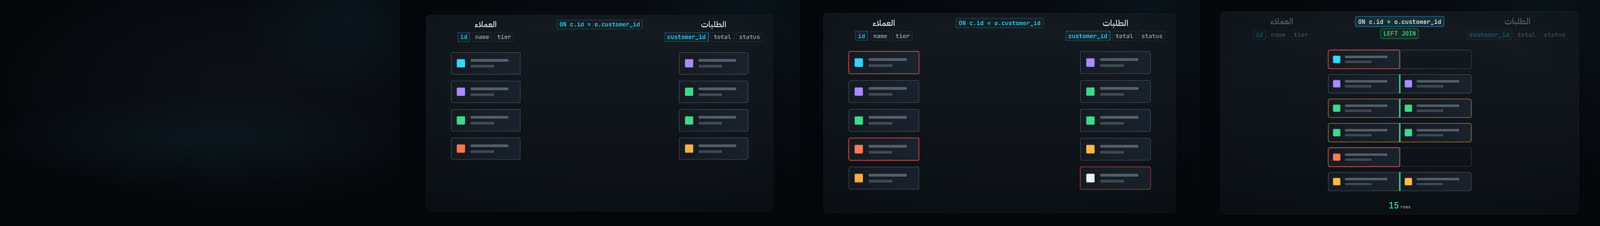
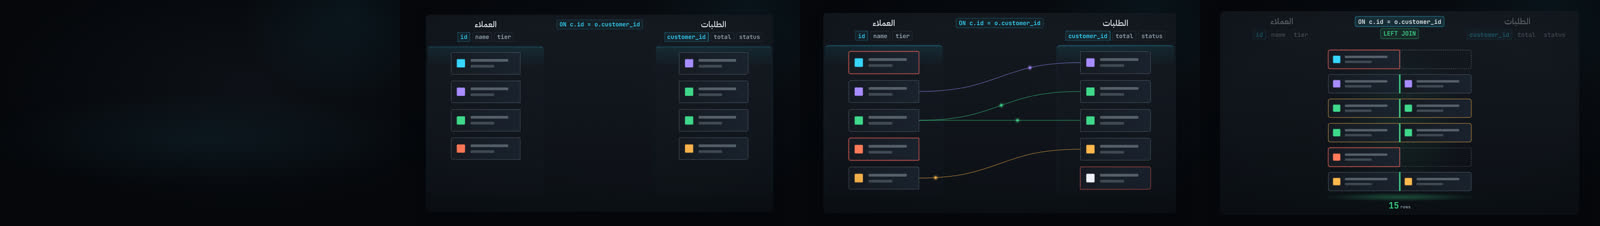
P7 data: JoinFusion finished (rim-lit slabs, PK-FK beams with spark, seam light shaft + floor pool; snap det 0 qa 0, baselines pending-critic; perf lite 0.184 / standard 0.178 / hero 0.155 box s/frame; Arabic QA pass)
Claude-Session: https://claude.ai/code/session_01VrU9wxU8GmuhdhWAAHnnQ8

diff --git a/studio/src/components/JoinFusion/JoinFusion.tsx b/studio/src/components/JoinFusion/JoinFusion.tsx
@@ -175,6 +175,44 @@ export const JoinFusionView: React.FC<DcProps<Props>> = ({props, ctx}) => {
   });
   // seams of fused rows: an ok bar where both sides are present
   const seams = res.map((rw, j) => (rw.l !== null && rw.r !== null && e > 0.5 ? <div key={`s${j}`} style={{position: 'absolute', left: W / 2 - 3, top: yPost(j) - cellH(1) / 2, width: 6, height: cellH(1), background: tint(C.ok, 0.9 * Math.min(1, (e - 0.5) / 0.5)), borderRadius: 3, boxShadow: `0 0 ${ctx.fx.glowInner}px ${tint(C.ok, 0.6)}`}} /> : null));
+  // depth + light (ADR-003 LK-F): each table stands on a slab with a rim-lit top edge, the matching keys are joined by beams
+  // (PK -> FK) with a travelling spark (deterministic phase), and the fused result is lit by a seam shaft and a floor pool.
+  const slabIn = Math.max(0, 1 - Math.min(1, e * 1.4));
+  const slabTop = pad + headH + 4;
+  const slabH = H - slabTop - pad - (props.result_rows ? Math.round(SIZE.body * 1.9) : 0) + 8;
+  const slab = (side: 'l' | 'r') => {
+    const x0 = side === 'l' ? pad - 10 : W - pad - tableW - 10;
+    return (
+      <div key={`slab${side}`} style={{position: 'absolute', left: x0, top: slabTop, width: tableW + 20, height: slabH, opacity: head * slabIn, borderRadius: 16, background: `linear-gradient(180deg, ${tint(C.signal, 0.1)} 0%, ${tint(C.panel, 0.55)} 14%, ${tint(C.panel, 0.2)} 100%)`, borderTop: `2px solid ${tint(C.signal, 0.55)}`, boxShadow: `0 -${Math.round(ctx.fx.glowInner * 0.5)}px ${Math.round(ctx.fx.glowInner * 1.6)}px ${tint(C.signal, 0.12)}`}} />
+    );
+  };
+  const beamsQ = prog(ctx, ctx.at + stag(ctx, 5, 2), 'morph') * Math.max(0, 1 - e * 2.2);
+  const beams: React.ReactNode[] = [];
+  if (beamsQ > 0.01) {
+    const x0 = xLpre + cw / 2;
+    const x1 = xRpre - cw / 2;
+    LEFT.forEach((lk, l) =>
+      RIGHT.forEach((rk, r) => {
+        if (rk !== lk) return;
+        const col = C[KEYC[lk % KEYC.length]];
+        const y0 = yPre(l);
+        const y1 = yPre(r);
+        const mx = (x0 + x1) / 2;
+        const ph = (((t - ctx.at) / (1.6 * ctx.fps) + (l * 5 + r) * 0.13) % 1 + 1) % 1;
+        const u = 1 - ph;
+        const bx = u * u * u * x0 + 3 * u * u * ph * mx + 3 * u * ph * ph * mx + ph * ph * ph * x1;
+        const by = u * u * u * y0 + 3 * u * u * ph * y0 + 3 * u * ph * ph * y1 + ph * ph * ph * y1;
+        beams.push(
+          <g key={`bm${l}.${r}`} opacity={beamsQ}>
+            <path d={`M${x0} ${y0} C${mx} ${y0} ${mx} ${y1} ${x1} ${y1}`} stroke={tint(col, 0.55)} strokeWidth={3} fill="none" strokeLinecap="round" />
+            <circle cx={bx} cy={by} r={6} fill={col} opacity={0.9} />
+            <circle cx={bx} cy={by} r={13} fill={tint(col, 0.22)} />
+          </g>,
+        );
+      }),
+    );
+  }
+  const shaftQ = Math.min(1, e * 1.6);
   const rr = props.result_rows;
   const fl = flashAt(ctx, fu && t >= landOf(ctx, fu) ? landOf(ctx, fu) : null);
   const tableHead = (side: 'l' | 'r') => {
@@ -196,6 +234,19 @@ export const JoinFusionView: React.FC<DcProps<Props>> = ({props, ctx}) => {
     <Shell ctx={ctx}>
       {fName.probe}
       <Plate style={{position: 'absolute', inset: 0, opacity: head}} />
+      {slab('l')}
+      {slab('r')}
+      {beams.length ? (
+        <svg width={W} height={H} style={{position: 'absolute', left: 0, top: 0, overflow: 'visible'}}>
+          {beams}
+        </svg>
+      ) : null}
+      {shaftQ > 0 ? (
+        <>
+          <div style={{position: 'absolute', left: W / 2 - cw * 0.9, width: cw * 1.8, top: rowsTop - 10, height: rowsH + 20, opacity: shaftQ * (0.6 + 0.4 * fl), background: `radial-gradient(ellipse at 50% 50%, ${tint(C.ok, 0.16)} 0%, ${tint(C.ok, 0)} 70%)`}} />
+          <div style={{position: 'absolute', left: W / 2 - cw * 1.1, width: cw * 2.2, top: rowsTop + rowsH - 6, height: Math.max(14, rowsH * 0.06), opacity: shaftQ, background: `radial-gradient(ellipse at 50% 50%, ${tint(C.ok, 0.3)} 0%, ${tint(C.ok, 0)} 70%)`}} />
+        </>
+      ) : null}
       {tableHead('l')}
       {tableHead('r')}
       {/* the join condition between the tables, then the kind once fused */}

diff --git a/docs/p7/catalog_status/data.md b/docs/p7/catalog_status/data.md
@@ -3,3 +3,4 @@
 | Component | Status | Notes |
 |---|---|---|
 | RowFunnel | implemented | One dot per surviving row (<= 30, else proportional bar with the dropped share in crit), funnel bands with directional light, dropped rows tumble out of the wall (arc, spin, trail), counter rolls on the `advance` word (RV1 onset, lands on the word end), stage rail, under-light pool. Demo = CH-11 funnel d:6.3:2 (14, 13, 11, 2, 2, 2, 2, 1; 8 stages, DISTINCT omitted because the frozen schema caps stages at 8: CR-007). Baselines pending-critic. Perf box s/frame at 3 slots: lite 0.106, standard 0.136, hero 0.136 (budgets 0.201 / 0.201 / 1.038). 2D SVG, no WebGL, so hero equals standard. |
+| JoinFusion | implemented | Two tables on rim-lit slabs (key chips, the `on` key lit), PK -> FK beams with a travelling spark between matching abstract rows (5 + 5 rows: 1:1, a 1:2 fan-out, unmatched; no digits or values invented), `fuse` slides the rows into the result of `kind` (inner / left / right / full / semi / anti / cross; NULL = hollow dashed ghost cells, dropped rows crit, fan-out rows warn edge, ok seam + light shaft + floor pool), `showUnmatched` rings unmatched rows in crit, `result_rows` (Num with ref) rolls up on the fuse word. Demo = CH-12 `customers LEFT JOIN orders`, 15 rows (d:6.4:1). The frozen schema has no row data, so the abstract rows are not the six real customers (CR-008 open: optional per-table key multiset). Baselines pending-critic. Perf box s/frame at 3 slots: lite 0.184, standard 0.178, hero 0.155 (budgets 0.201 / 0.201 / 1.038); 2D DOM + SVG, hero equals standard. Arabic QA (العملاء, الطلبات) pass. |
